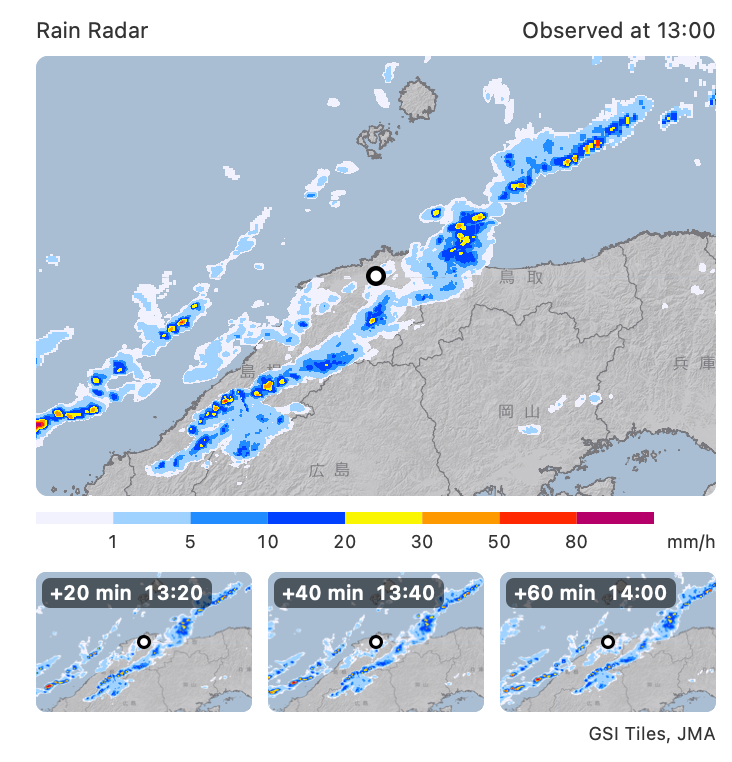
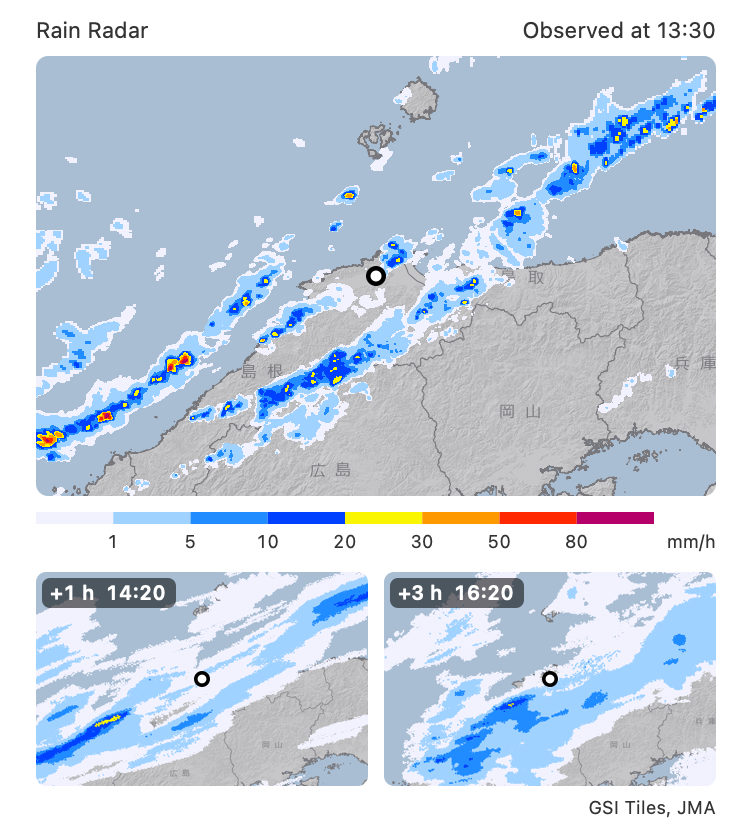
weather: 雨雲の動きの予測を 1 時間後と 3 時間後の 2 コマにする (v1.2.1) (#38)

diff --git a/Sources/weather/RainRadar.swift b/Sources/weather/RainRadar.swift
@@ -64,8 +64,10 @@ struct RadarView {
         centerY = (1 - log(tan(phi) + 1 / cos(phi)) / .pi) / 2 * worldSize
     }
 
-    var left: Double { centerX - Self.pixelWidth / 2 }
-    var top: Double { centerY - Self.pixelHeight / 2 }
+    /// 範囲の左上。画素の境目にそろえる (小数のままだと、タイルの縁が半透明に描かれて
+    /// 継ぎ目が線になる)。地点は範囲の中心から 1 画素 (0.5pt) までずれる
+    var left: Double { floor(centerX - Self.pixelWidth / 2) }
+    var top: Double { floor(centerY - Self.pixelHeight / 2) }
 
     /// 範囲にかかるタイルの番号
     var tiles: [(x: Int, y: Int)] {
@@ -83,15 +85,18 @@ struct RadarView {
 /// - 地図のタイル (国土地理院): 陰影起伏図 (海が透明) で陸の形を、白地図で海岸線と
 ///   都府県の境を取り、外観に合わせて塗り直したものを置いておく。地図は変わらないので
 ///   30 日使い回す。
-/// - 降水のタイル (気象庁): 5 分ごとに更新される。実況と、20・40・60 分後の予測を
-///   更新のたびに取る。範囲にかかるタイルは 4×3 枚までなので、1 回に 48 枚まで。
-///   雨の無いタイルは数百バイトの透明な PNG。
+/// - 降水のタイル (気象庁): 実況は高解像度降水ナウキャスト (5 分ごとに更新)、予測は
+///   降水短時間予報 (10 分ごとに更新、1 時間ごとに 6 時間先まで) の 1 時間後と 3 時間後。
+///   ナウキャストの予測は 60 分先までで、300km 四方の地図では雨域がほとんど動いて
+///   見えなかった。更新のたびに取り、範囲にかかるタイルは 4×3 枚までなので、1 回に
+///   36 枚まで。雨の無いタイルは数百バイトの透明な PNG。降水短時間予報の値は前 1 時間の
+///   降水量 (mm) だが、配色はナウキャストの強さ (mm/h) と同じ。
 final class RadarMaker {
     let cache: CacheFolder
     let client: JMAClient
 
-    /// 予測のコマ (実況の何分後か)
-    static let forecastMinutes = [20, 40, 60]
+    /// 予測のコマ (降水短時間予報の発表の何時間後か)
+    static let forecastHours = [1, 3]
 
     init(cache: CacheFolder, client: JMAClient) {
         self.cache = cache
@@ -100,22 +105,31 @@ final class RadarMaker {
 
     // MARK: - 取り直し
 
-    /// 気象庁のナウキャストの時刻の一覧 (targetTimes_N1.json・targetTimes_N2.json) の 1 件
+    /// 気象庁のタイルの時刻の一覧 (targetTimes*.json) の 1 件。`member` は降水短時間予報
+    /// にだけある (10 分ごとの速報は immed、1 時間ごとの 15 時間先までの予報は none)
     private struct TargetTime: Decodable {
         let basetime: String
         let validtime: String
+        let member: String?
     }
 
     /// 地点のまわりのタイルを取る。実況のタイルを取れたら true
     @discardableResult
     func fetch(latitude: Double, longitude: Double) async -> Bool {
-        // 予測 (N2) の発表時刻を実況の時刻にする。実況 (N1) のほうが先に新しくなることが
-        // あり、実況だけ新しいと予測のコマと時刻がずれる
-        guard let data = await client.data("jmatile/data/nowc/targetTimes_N2.json"),
-              let times = try? JSONDecoder().decode([TargetTime].self, from: data),
-              let base = times.map(\.basetime).max(),
-              let baseDate = Self.nowcastFormatter.date(from: base) else { return false }
-        let valids = Self.forecastMinutes.map { Self.nowcastFormatter.string(from: baseDate.addingTimeInterval(Double($0 * 60))) }
+        let decoder = JSONDecoder()
+        guard let nowData = await client.data("jmatile/data/nowc/targetTimes_N1.json"),
+              let nowTimes = try? decoder.decode([TargetTime].self, from: nowData),
+              let nowBase = nowTimes.map(\.basetime).max(),
+              let forecastData = await client.data("jmatile/data/rasrf/targetTimes.json"),
+              let forecastTimes = try? decoder.decode([TargetTime].self, from: forecastData),
+              // 最新の発表時刻には、まだ解析値 (発表時刻と同じ時刻のもの) しか無いことがある
+              // (2026-11-18 に 04:20 の発表が解析値だけで、予測は 04:10 の発表にあった)。
+              // 予測のある発表のうち、いちばん新しいものを使う
+              let forecastBase = forecastTimes.filter({ $0.member == "immed" && $0.validtime > $0.basetime })
+                  .map(\.basetime).max(),
+              let forecastDate = Self.timeFormatter.date(from: forecastBase) else { return false }
+        let valids = Self.forecastHours.map { Self.timeFormatter.string(from: forecastDate.addingTimeInterval(Double($0 * 3600))) }
+        let times = RadarTimes(nowBase: nowBase, forecastBase: forecastBase, valids: valids)
 
         let view = RadarView(latitude: latitude, longitude: longitude)
         let z = RadarView.zoom
@@ -129,9 +143,8 @@ final class RadarMaker {
                 }
                 jobs.append(("https://cyberjapandata.gsi.go.jp/xyz/\(layer)/\(z)/\(x)/\(y).png", file))
             }
-            for valid in [base] + valids {
-                jobs.append(("jmatile/data/nowc/\(base)/none/\(valid)/surf/hrpns/\(z)/\(x)/\(y).png",
-                             cache.radarTile(Self.rainTileName(base: base, valid: valid, x: x, y: y))))
+            for frame in times.frames {
+                jobs.append((frame.path(x: x, y: y), cache.radarTile(frame.name(x: x, y: y))))
             }
         }
         let client = self.client
@@ -143,9 +156,9 @@ final class RadarMaker {
             for await (file, ok) in group where !ok { failed.insert(file) }
             return failed
         }
-        let nowTiles = view.tiles.map { cache.radarTile(Self.rainTileName(base: base, valid: base, x: $0.x, y: $0.y)) }
+        let nowTiles = view.tiles.map { cache.radarTile(times.frames[0].name(x: $0.x, y: $0.y)) }
         guard !nowTiles.contains(where: failed.contains) else { return false }
-        CacheFolder.writeText(([base] + valids).joined(separator: " ") + "\n", to: cache.radarTimes)
+        CacheFolder.writeText(times.line + "\n", to: cache.radarTimes)
         cache.deleteOldFiles(in: "radar", days: 3.0 / 24) { $0.hasPrefix("rain-") }
         cache.deleteOldFiles(in: "radar", days: 30) { $0.hasPrefix("gsi-") || $0.hasPrefix("base-") }
         return true
@@ -162,12 +175,8 @@ final class RadarMaker {
         }
     }
 
-    private static func rainTileName(base: String, valid: String, x: Int, y: Int) -> String {
-        "rain-\(base)-\(valid)-\(RadarView.zoom)-\(x)-\(y)"
-    }
-
-    /// 気象庁のナウキャストの時刻の書式 (UTC)
-    private static let nowcastFormatter: DateFormatter = {
+    /// 気象庁のタイルの時刻の書式 (UTC)
+    static let timeFormatter: DateFormatter = {
         let formatter = DateFormatter()
         formatter.locale = Locale(identifier: "en_US_POSIX")
         formatter.timeZone = TimeZone(identifier: "UTC")
@@ -182,20 +191,18 @@ final class RadarMaker {
         guard let line = CacheFolder.readText(cache.radarTimes)?.trimmingCharacters(in: .whitespacesAndNewlines) else {
             return nil
         }
-        let times = line.split(separator: " ").map(String.init)
-        guard times.count == Self.forecastMinutes.count + 1 else { return nil }
-        let base = times[0]
+        guard let times = RadarTimes(line: line) else { return nil }
         let view = RadarView(latitude: latitude, longitude: longitude)
 
         // コマごとに、タイルの番号 → 降水のタイル。予測のタイルが欠けていたら透明として描く
         var frames: [[String: TileBitmap]] = []
-        for valid in times {
+        for (k, frame) in times.frames.enumerated() {
             var tiles: [String: TileBitmap] = [:]
             for (x, y) in view.tiles {
-                let file = cache.radarTile(Self.rainTileName(base: base, valid: valid, x: x, y: y))
+                let file = cache.radarTile(frame.name(x: x, y: y))
                 if let bitmap = TileBitmap(file: file) {
                     tiles["\(x)-\(y)"] = bitmap
-                } else if valid == base, !FileManager.default.fileExists(atPath: file.path) {
+                } else if k == 0, !FileManager.default.fileExists(atPath: file.path) {
                     return nil // 実況のタイルが無い (この地点ではまだ取っていない)
                 }
             }
@@ -207,7 +214,7 @@ final class RadarMaker {
         }
 
         let report = RadarReport(view: view, frames: frames)
-        let card = RadarCardDrawing(view: view, base: base, valids: Array(times.dropFirst()),
+        let card = RadarCardDrawing(view: view, base: times.nowBase, valids: times.valids,
                                     frames: frames, bases: bases, dark: dark).render()
         let page = String(format: "https://www.jma.go.jp/bosai/nowc/#lat:%.6f/lon:%.6f/zoom:9/colordepth:normal/elements:hrpns&slmcs",
                           latitude, longitude)
@@ -259,6 +266,49 @@ final class RadarMaker {
     }
 }
 
+/// 雨雲の地図に使う時刻 (気象庁の UTC の書式)。キャッシュの radar/times.txt に
+/// 「実況の時刻 予報の発表時刻 予測の時刻…」の 1 行で書く
+struct RadarTimes {
+    /// 実況 (高解像度降水ナウキャスト) の時刻
+    let nowBase: String
+    /// 降水短時間予報 (速報) の発表時刻
+    let forecastBase: String
+    /// 予測のコマの時刻 (`RadarMaker.forecastHours` の順)
+    let valids: [String]
+
+    init(nowBase: String, forecastBase: String, valids: [String]) {
+        self.nowBase = nowBase
+        self.forecastBase = forecastBase
+        self.valids = valids
+    }
+
+    /// times.txt の 1 行から読む。形が合わなければ nil (v1.2.0 の書式も含む)
+    init?(line: String) {
+        let parts = line.split(separator: " ").map(String.init)
+        guard parts.count == RadarMaker.forecastHours.count + 2 else { return nil }
+        self.init(nowBase: parts[0], forecastBase: parts[1], valids: Array(parts.dropFirst(2)))
+    }
+
+    var line: String { ([nowBase, forecastBase] + valids).joined(separator: " ") }
+
+    /// コマ (先頭が実況) のタイルの URL とキャッシュのファイル名
+    var frames: [Frame] {
+        [Frame(directory: "jmatile/data/nowc/\(nowBase)/none/\(nowBase)/surf/hrpns", stem: "rain-now-\(nowBase)")]
+            + valids.map { Frame(directory: "jmatile/data/rasrf/\(forecastBase)/immed/\($0)/surf/rasrf",
+                                 stem: "rain-rasrf-\(forecastBase)-\($0)") }
+    }
+
+    struct Frame {
+        /// タイルの URL の、ズームより前 (JMAClient.base からの相対)
+        let directory: String
+        /// キャッシュのファイル名の、タイルの番号より前
+        let stem: String
+
+        func path(x: Int, y: Int) -> String { "\(directory)/\(RadarView.zoom)/\(x)/\(y).png" }
+        func name(x: Int, y: Int) -> String { "\(stem)-\(RadarView.zoom)-\(x)-\(y)" }
+    }
+}
+
 /// 地図の地の色 (0〜1 の RGB)
 struct MapPalette {
     let sea: [Double]
@@ -305,8 +355,8 @@ struct RadarReport {
             return L("雨 \(RainLevel.range(level))", "Raining, \(RainLevel.range(level))")
         }
         if let k = center.dropFirst().firstIndex(where: { $0 != nil }) {
-            let minutes = RadarMaker.forecastMinutes[k - 1]
-            return L("\(minutes) 分後に雨の予測", "Rain expected in \(minutes) min")
+            let hours = RadarMaker.forecastHours[k - 1]
+            return L("\(hours) 時間後に雨の予測", hours == 1 ? "Rain expected in 1 hour" : "Rain expected in \(hours) hours")
         }
         if let maxLevel {
             return L("周辺に雨雲（最大 \(RainLevel.range(maxLevel))）", "Rain nearby (up to \(RainLevel.range(maxLevel)))")
@@ -394,9 +444,9 @@ struct RadarCardDrawing {
             for (i, valid) in valids.enumerated() {
                 let rect = CGRect(x: CGFloat(i) * (thumbnailWidth + thumbnailGap), y: thumbnailTop,
                                   width: thumbnailWidth, height: thumbnailHeight)
-                drawMap(context, frame: i + 1, in: rect, radius: 5, marker: 3.5)
-                drawThumbnailLabel(context, L("\(RadarMaker.forecastMinutes[i]) 分後  \(Self.clock(valid))",
-                                              "+\(RadarMaker.forecastMinutes[i]) min  \(Self.clock(valid))"), in: rect)
+                drawMap(context, frame: i + 1, in: rect, radius: 5, marker: 4)
+                drawThumbnailLabel(context, L("\(RadarMaker.forecastHours[i]) 時間後  \(Self.clock(valid))",
+                                              "+\(RadarMaker.forecastHours[i]) h  \(Self.clock(valid))"), in: rect)
             }
             pen.text(L("地理院タイル・気象庁", "GSI Tiles, JMA"), x: width, y: creditTop, size: 9,
                      color: colors.secondary, align: .right)
@@ -405,22 +455,12 @@ struct RadarCardDrawing {
 
     /// 地図を `rect` に描く。地図の範囲を `rect` の幅に合わせて縮める
     private func drawMap(_ context: CGContext, frame: Int, in rect: CGRect, radius: CGFloat, marker: CGFloat) {
-        let scale = rect.width / (RadarView.pixelWidth / 2)
         context.saveGState()
         context.addPath(CGPath(roundedRect: rect, cornerWidth: radius, cornerHeight: radius, transform: nil))
         context.clip()
-        let sea = MapPalette(dark: dark).sea
-        context.setFillColor(red: sea[0], green: sea[1], blue: sea[2], alpha: 1)
-        context.fill(rect)
-        context.interpolationQuality = scale < 1 ? .high : .none
-        for (x, y) in view.tiles {
-            let tileRect = CGRect(x: rect.minX + (Double(x * 256) - view.left) / 2 * scale,
-                                  y: rect.minY + (Double(y * 256) - view.top) / 2 * scale,
-                                  width: 128 * scale, height: 128 * scale)
-            let key = "\(x)-\(y)"
-            for image in [bases[key], frames[frame][key]?.image].compactMap({ $0 }) {
-                NSImage(cgImage: image, size: tileRect.size).drawUpright(in: tileRect)
-            }
+        if let image = mapImage(frame: frame) {
+            context.interpolationQuality = .high
+            NSImage(cgImage: image, size: rect.size).drawUpright(in: rect)
         }
         context.restoreGState()
         // 地点の印。雨の配色に無い黒と白の二重丸にして、どの色の上でも見えるようにする
@@ -430,6 +470,30 @@ struct RadarCardDrawing {
         let inner = marker * 0.55
         context.setFillColor(NSColor.white.cgColor)
         context.fillEllipse(in: CGRect(x: center.x - inner, y: center.y - inner, width: inner * 2, height: inner * 2))
+    }
+
+    /// コマの地図を、タイルの画素のまま (680×440) 1 枚に組む。タイルを 1 枚ずつ縮めて
+    /// 描くと、縁が透明な外側に溶けて、予測のコマにタイルの継ぎ目が線になって出た
+    private func mapImage(frame: Int) -> CGImage? {
+        let width = Int(RadarView.pixelWidth), height = Int(RadarView.pixelHeight)
+        guard let context = CGContext(data: nil, width: width, height: height, bitsPerComponent: 8, bytesPerRow: 0,
+                                      space: CGColorSpace(name: CGColorSpace.sRGB)!,
+                                      bitmapInfo: CGImageAlphaInfo.premultipliedLast.rawValue) else { return nil }
+        let sea = MapPalette(dark: dark).sea
+        context.setFillColor(red: sea[0], green: sea[1], blue: sea[2], alpha: 1)
+        context.fill(CGRect(x: 0, y: 0, width: width, height: height))
+        context.interpolationQuality = .none
+        for (x, y) in view.tiles {
+            // Core Graphics の座標は下から上へ取る
+            let left = Double(x * 256) - view.left
+            let top = Double(y * 256) - view.top
+            let tileRect = CGRect(x: left, y: Double(height) - top - 256, width: 256, height: 256)
+            let key = "\(x)-\(y)"
+            for image in [bases[key], frames[frame][key]?.image].compactMap({ $0 }) {
+                context.draw(image, in: tileRect)
+            }
+        }
+        return context.makeImage()
     }
 
     /// 凡例。段階の色を並べ、境目の下に強さ (mm/h) を書く
@@ -459,11 +523,7 @@ struct RadarCardDrawing {
 
     /// 気象庁の UTC の時刻を、日本時間の「HH:mm」にする
     static func clock(_ text: String) -> String {
-        let formatter = DateFormatter()
-        formatter.locale = Locale(identifier: "en_US_POSIX")
-        formatter.timeZone = TimeZone(identifier: "UTC")
-        formatter.dateFormat = "yyyyMMddHHmmss"
-        guard let date = formatter.date(from: text) else { return "" }
+        guard let date = RadarMaker.timeFormatter.date(from: text) else { return "" }
         return JapanTime.string(date.timeIntervalSince1970, "H:mm")
     }
 }

diff --git a/README.ja.md b/README.ja.md
@@ -91,7 +91,7 @@ place=大阪
 
 観測点のある市町村 (現在地では、いま実際にいる市町村) に警報・注意報が出ていれば、カードの上に「千代田区の警報・注意報」として並べます。項目を選ぶと、気象庁の警報・注意報のページがその市町村で開きます。警報・危険警報・特別警報のときは、メニューバーにも気象庁の段階の色 (警報は赤、危険警報は紫、特別警報は黒か白) の印を出します。注意報は雷や乾燥などでよく出ているので、メニューを開いたときだけ見せます。
 
-カードのすぐ下の「雨雲の動き」には、表示している地点のまわりの雨の様子を添えます (「雨 1〜5 mm/h」「20 分後に雨の予測」「周辺に雨雲（最大 30〜50 mm/h）」「雨雲なし」)。項目にマウスを載せると、気象庁の[雨雲の動き](https://www.jma.go.jp/bosai/nowc/) (高解像度降水ナウキャスト) の地図を出します。地点を中心に約 300km の範囲の実況と、20・40・60 分後の予測です。地図は[国土地理院の地理院タイル](https://maps.gsi.go.jp/development/ichiran.html) (陰影起伏図と白地図) に雨域を重ねたもので、項目を選ぶと気象庁のページがその地点で開きます。
+カードのすぐ下の「雨雲の動き」には、表示している地点のまわりの雨の様子を添えます (「雨 1〜5 mm/h」「1 時間後に雨の予測」「周辺に雨雲（最大 30〜50 mm/h）」「雨雲なし」)。項目にマウスを載せると、気象庁の[雨雲の動き](https://www.jma.go.jp/bosai/nowc/)の地図を出します。地点を中心に約 300km の範囲の実況 (高解像度降水ナウキャスト) と、1 時間後・3 時間後の予測 (降水短時間予報。前 1 時間の降水量) です。地図は[国土地理院の地理院タイル](https://maps.gsi.go.jp/development/ichiran.html) (陰影起伏図と白地図) に雨域を重ねたもので、項目を選ぶと気象庁のページがその地点で開きます。
 
 <p align="center">
   <picture>

diff --git a/README.md b/README.md
@@ -91,7 +91,7 @@ The plugin finds the forecast area from the station: it uses the forecast area w
 
 When weather warnings or advisories are in effect for the municipality of the station (for My Location, the municipality you are actually in), the menu lists them above the card, under a heading like **Warnings and Advisories for Chiyoda City**. Choosing one opens the JMA warnings page for that municipality. For warnings and higher (warning, urgent warning, and emergency warning), the menu bar also shows a mark in the JMA color for the level: red, purple, and black or white. Advisories, such as for thunderstorms or dry air, are common, so they appear only in the menu.
 
-Right below the card, **Rain Radar** sums up the rain around the location shown ("Raining, 1–5 mm/h", "Rain expected in 20 min", "Rain nearby (up to 30–50 mm/h)", or "No rain nearby"). Hover over it to see the map of the JMA [rain radar](https://www.jma.go.jp/bosai/nowc/) (high-resolution precipitation nowcasts): the current rain in about 300 km around the location, and the forecasts for 20, 40, and 60 minutes ahead. The rain is drawn over [GSI Tiles](https://maps.gsi.go.jp/development/ichiran.html) (the hillshade and blank maps) from the Geospatial Information Authority of Japan. Choose the item to open the JMA page at that location.
+Right below the card, **Rain Radar** sums up the rain around the location shown ("Raining, 1–5 mm/h", "Rain expected in 1 hour", "Rain nearby (up to 30–50 mm/h)", or "No rain nearby"). Hover over it to see the map of the JMA [rain radar](https://www.jma.go.jp/bosai/nowc/): the current rain in about 300 km around the location (high-resolution precipitation nowcasts), and the forecasts for 1 and 3 hours ahead (very-short-range precipitation forecasts, showing the amount over the previous hour). The rain is drawn over [GSI Tiles](https://maps.gsi.go.jp/development/ichiran.html) (the hillshade and blank maps) from the Geospatial Information Authority of Japan. Choose the item to open the JMA page at that location.
 
 <p align="center">
   <picture>
